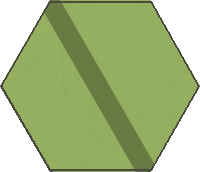
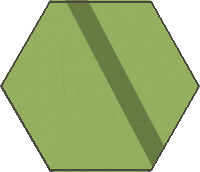
Smooth road and correct Saxon leader stacks

Changed region(s): [[0.21, 0.0, 0.84, 1.0]]

diff --git a/Tools/generate_assets.py b/Tools/generate_assets.py
@@ -293,6 +293,24 @@ for ident in affected_grid:
         })
 root.insert(stream_index + 1, grid)
 
+# The source road is a four-point polyline with two abrupt corners at Senlac
+# Hill. Replace only the rendered copy with connected Bezier curves that pass
+# through the same bend and retain the original map-edge endpoints. Road hex
+# ownership above continues to use the source centerline.
+for element in root.iter():
+    if element.get("id") != "road":
+        continue
+    for child in element:
+        if not child.tag.endswith("polyline"):
+            continue
+        child.tag = SVG + "path"
+        child.attrib.pop("points", None)
+        child.set("d", "M 1375,17 "
+                       "C 1435,116 1510,265 1560,320 "
+                       "C 1580,344 1620,322 1660,328 "
+                       "C 1780,346 2200,1300 2520,1820")
+        child.set("stroke-linecap", "round")
+
 # The paper and ridge turbulence filters make rasterization extremely slow on
 # this Mac. Keep the much cheaper stream displacement filter so the water has
 # the irregular banks specified by the SVG. Add the ridge texture with Pillow

diff --git a/Documents/initial_deployment.tex b/Documents/initial_deployment.tex
@@ -10,7 +10,7 @@ At the start of the game, the Normans place their troops in the hexes marked on 
 
 The Saxon player sets aside five 4-4/2-6 Thegn units. He then puts all the remaining fyrd units into a cup and randomly draws 27 of them. These, together with the five Thegn units are used by the Saxon player during the game. The pieces are set up as follows:
 
-\textbf{F/T} = Fyrd/Thegn; \textbf{HC} = Housecarl; \textbf{B} = Bowmen. \textbf{Harold is placed in hex 0514;} \textbf{Leofwine} in hex 0710; and \textbf{Gyrth} in 0721. The units can face in any direction.
+\textbf{F/T} = Fyrd/Thegn; \textbf{HC} = Housecarl; \textbf{B} = Bowmen. \textbf{Harold is placed in hex 0514;} \textbf{Leofwine} in hex 0710; and \textbf{Gyrth} in 0721. Each leader shares the hex with the unit indicated by the map's setup marking: Harold with a Housecarl, and Leofwine and Gyrth with a Fyrd/Thegn unit. The units can face in any direction.
 
 \subsection{Variable Deployment (Optional)}
 

diff --git a/UnityProject/Assets/Editor/ProjectChecks.cs b/UnityProject/Assets/Editor/ProjectChecks.cs
@@ -90,6 +90,12 @@ public static class ProjectChecks
         Check(!state.units.Any(u=>u.hex=="1307"),"Errata setup hex 1307 used");
         Check(state.units.Where(u=>!UnitTypes.Get(u).leader && u.hex!="")
             .GroupBy(u=>u.hex).All(g=>g.Count()==1),"Combat units stacked at setup");
+        foreach(var leaderType in new[]{"Harold","Gyrth","Leofwine"})
+        {
+            var leader=state.units.Single(u=>u.type==leaderType);
+            Check(state.units.Any(u=>u.hex==leader.hex && !UnitTypes.Get(u).leader),
+                leaderType+" must share its setup hex with a combat unit");
+        }
         var odo=state.units.Single(u=>u.type=="Odo");
         Check(odo.group=="Norman" && UnitTypes.Get(odo).nation=="Norman" &&
             state.units.Any(u=>u.hex==odo.hex && !UnitTypes.Get(u).leader &&

diff --git a/UnityProject/Assets/Scripts/Core/Setup.cs b/UnityProject/Assets/Scripts/Core/Setup.cs
@@ -18,8 +18,10 @@ namespace Hastings
         private static readonly string[] SaxonLine = {
             "0624","0623","0622","0621","0620","0619","0618","0617",
             "0616","0615","0614","0613","0612","0611","0610","0609",
-            "0724","0723","0722","0720","0719","0718","0717","0716",
-            "0715","0714","0713","0712","0711","0709","0708","0707"
+            // The printed F/T line runs from 0724 through 0709. Its markings
+            // share 0721 with Gyrth and 0710 with Leofwine.
+            "0724","0723","0722","0721","0720","0719","0718","0717",
+            "0716","0715","0714","0713","0712","0711","0710","0709"
         };
         public static GameState New(Board board, uint seed)
         {
